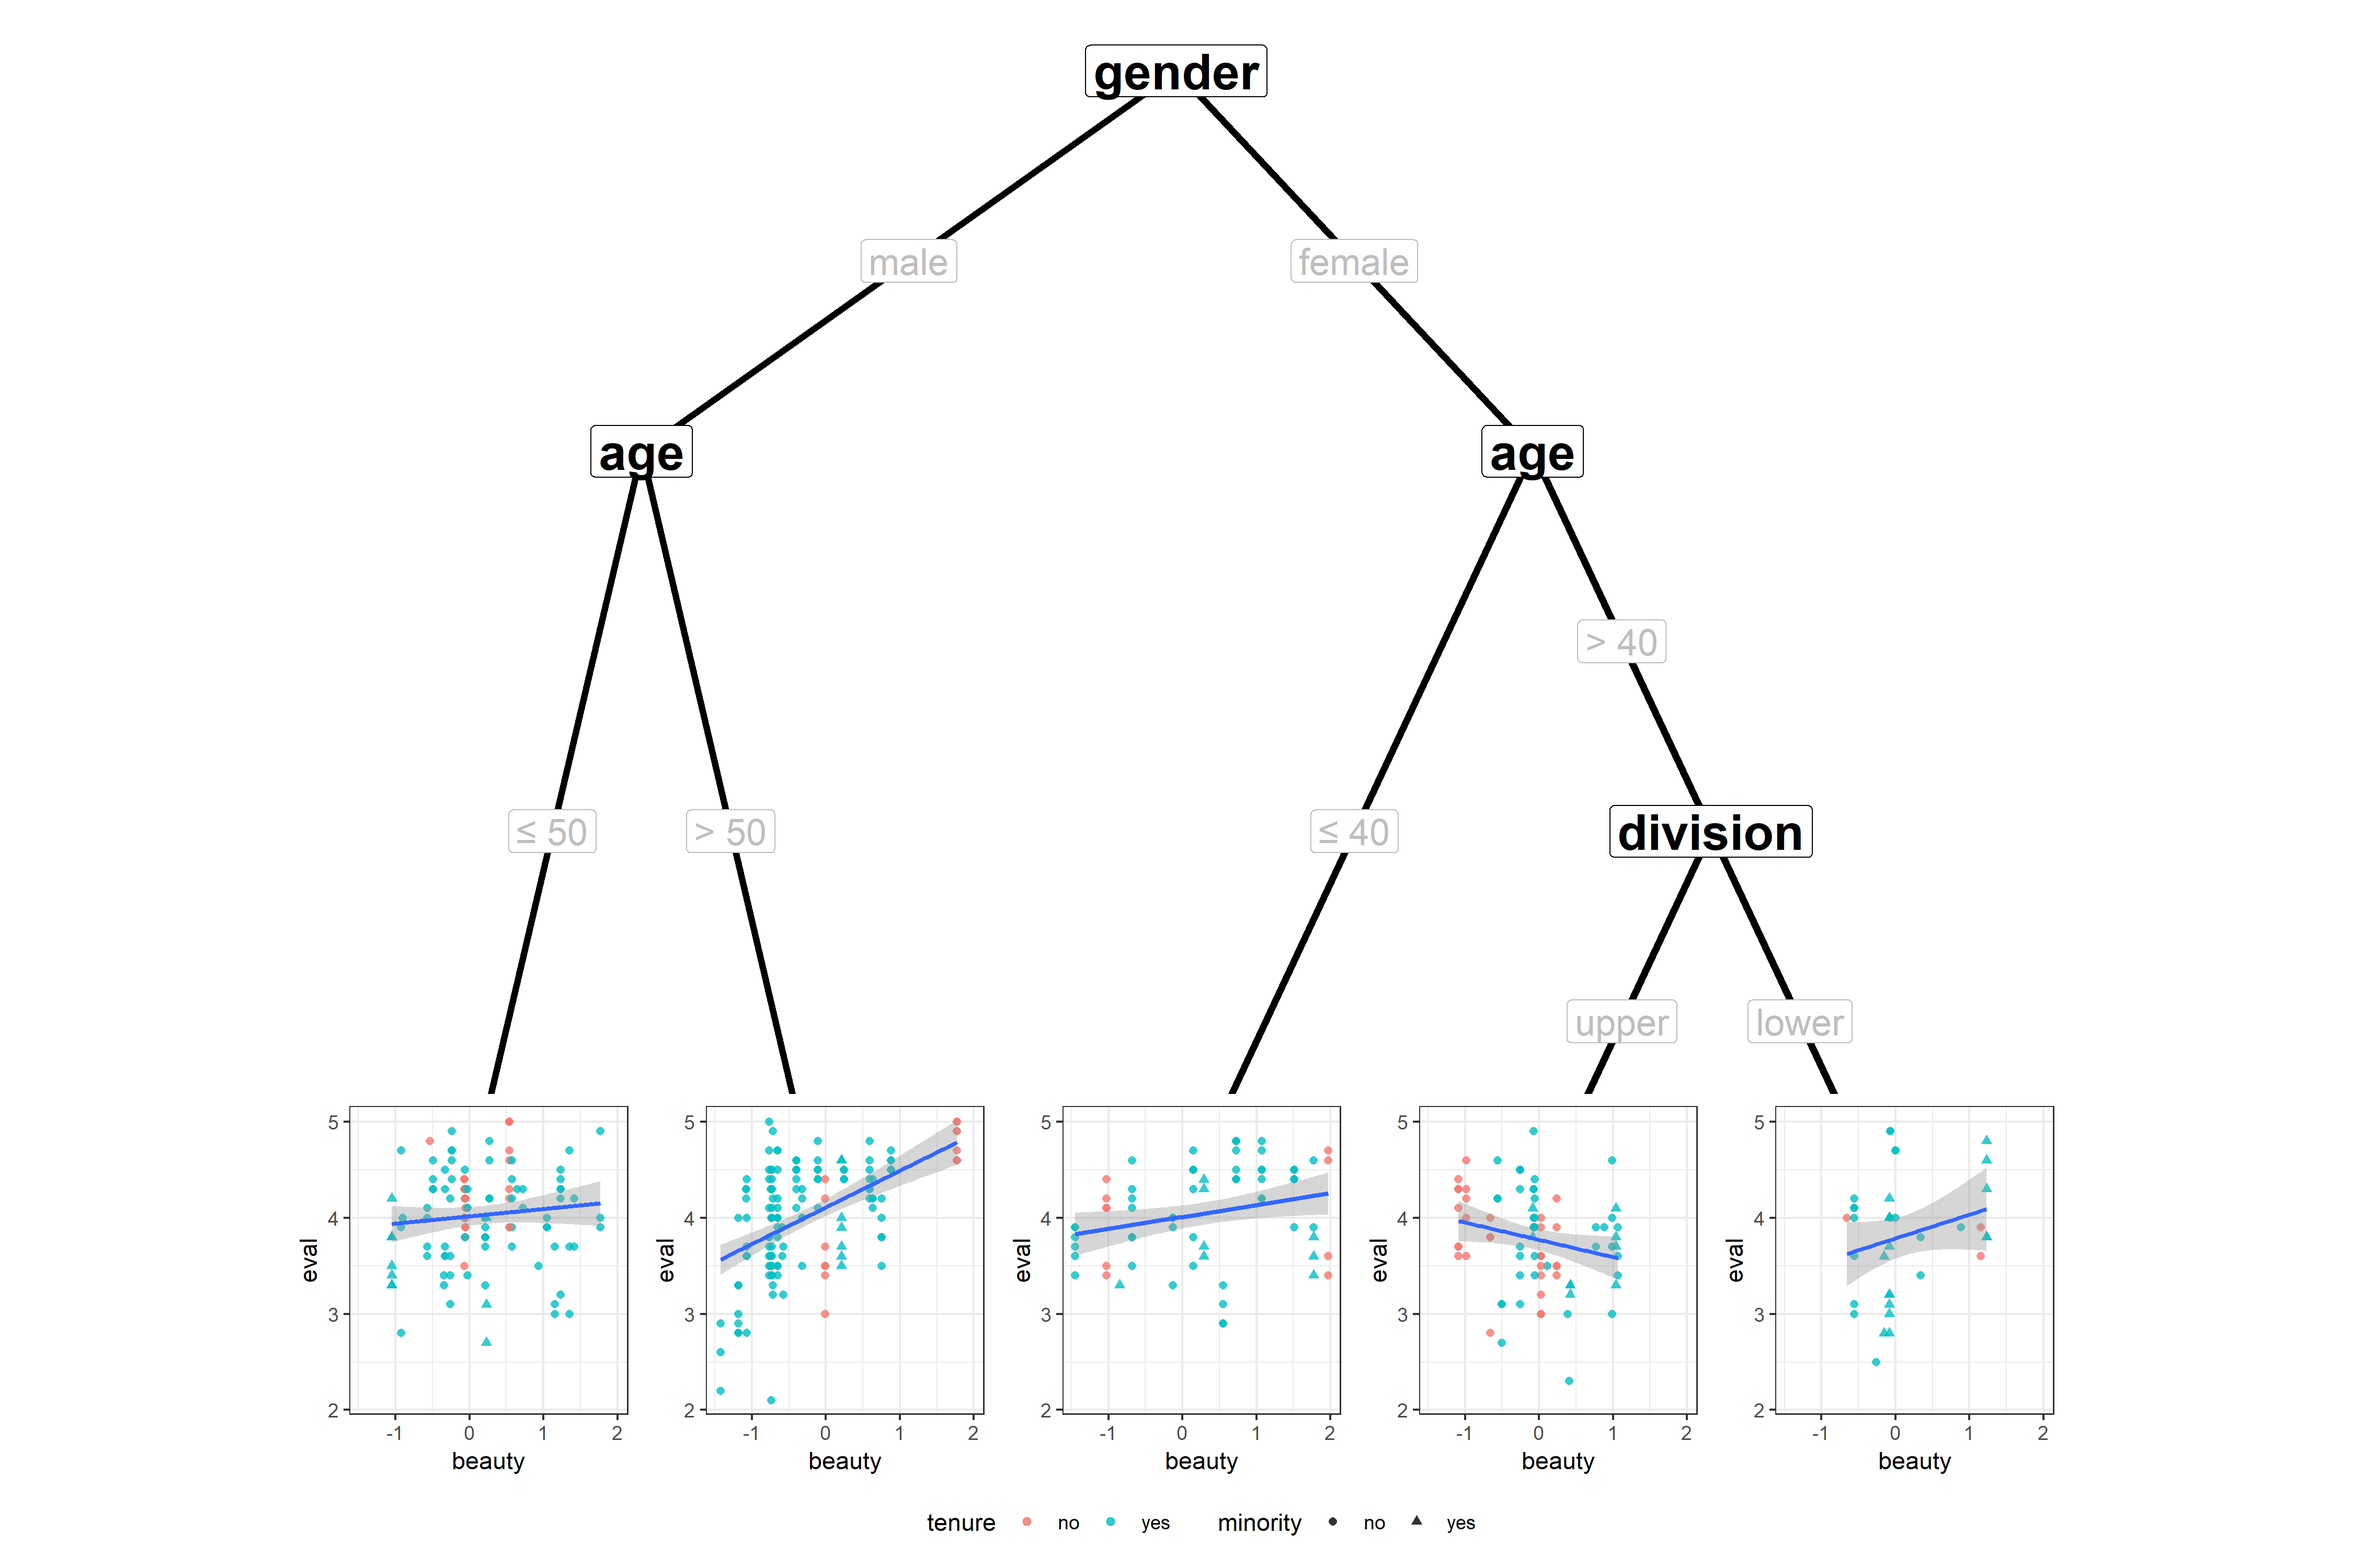
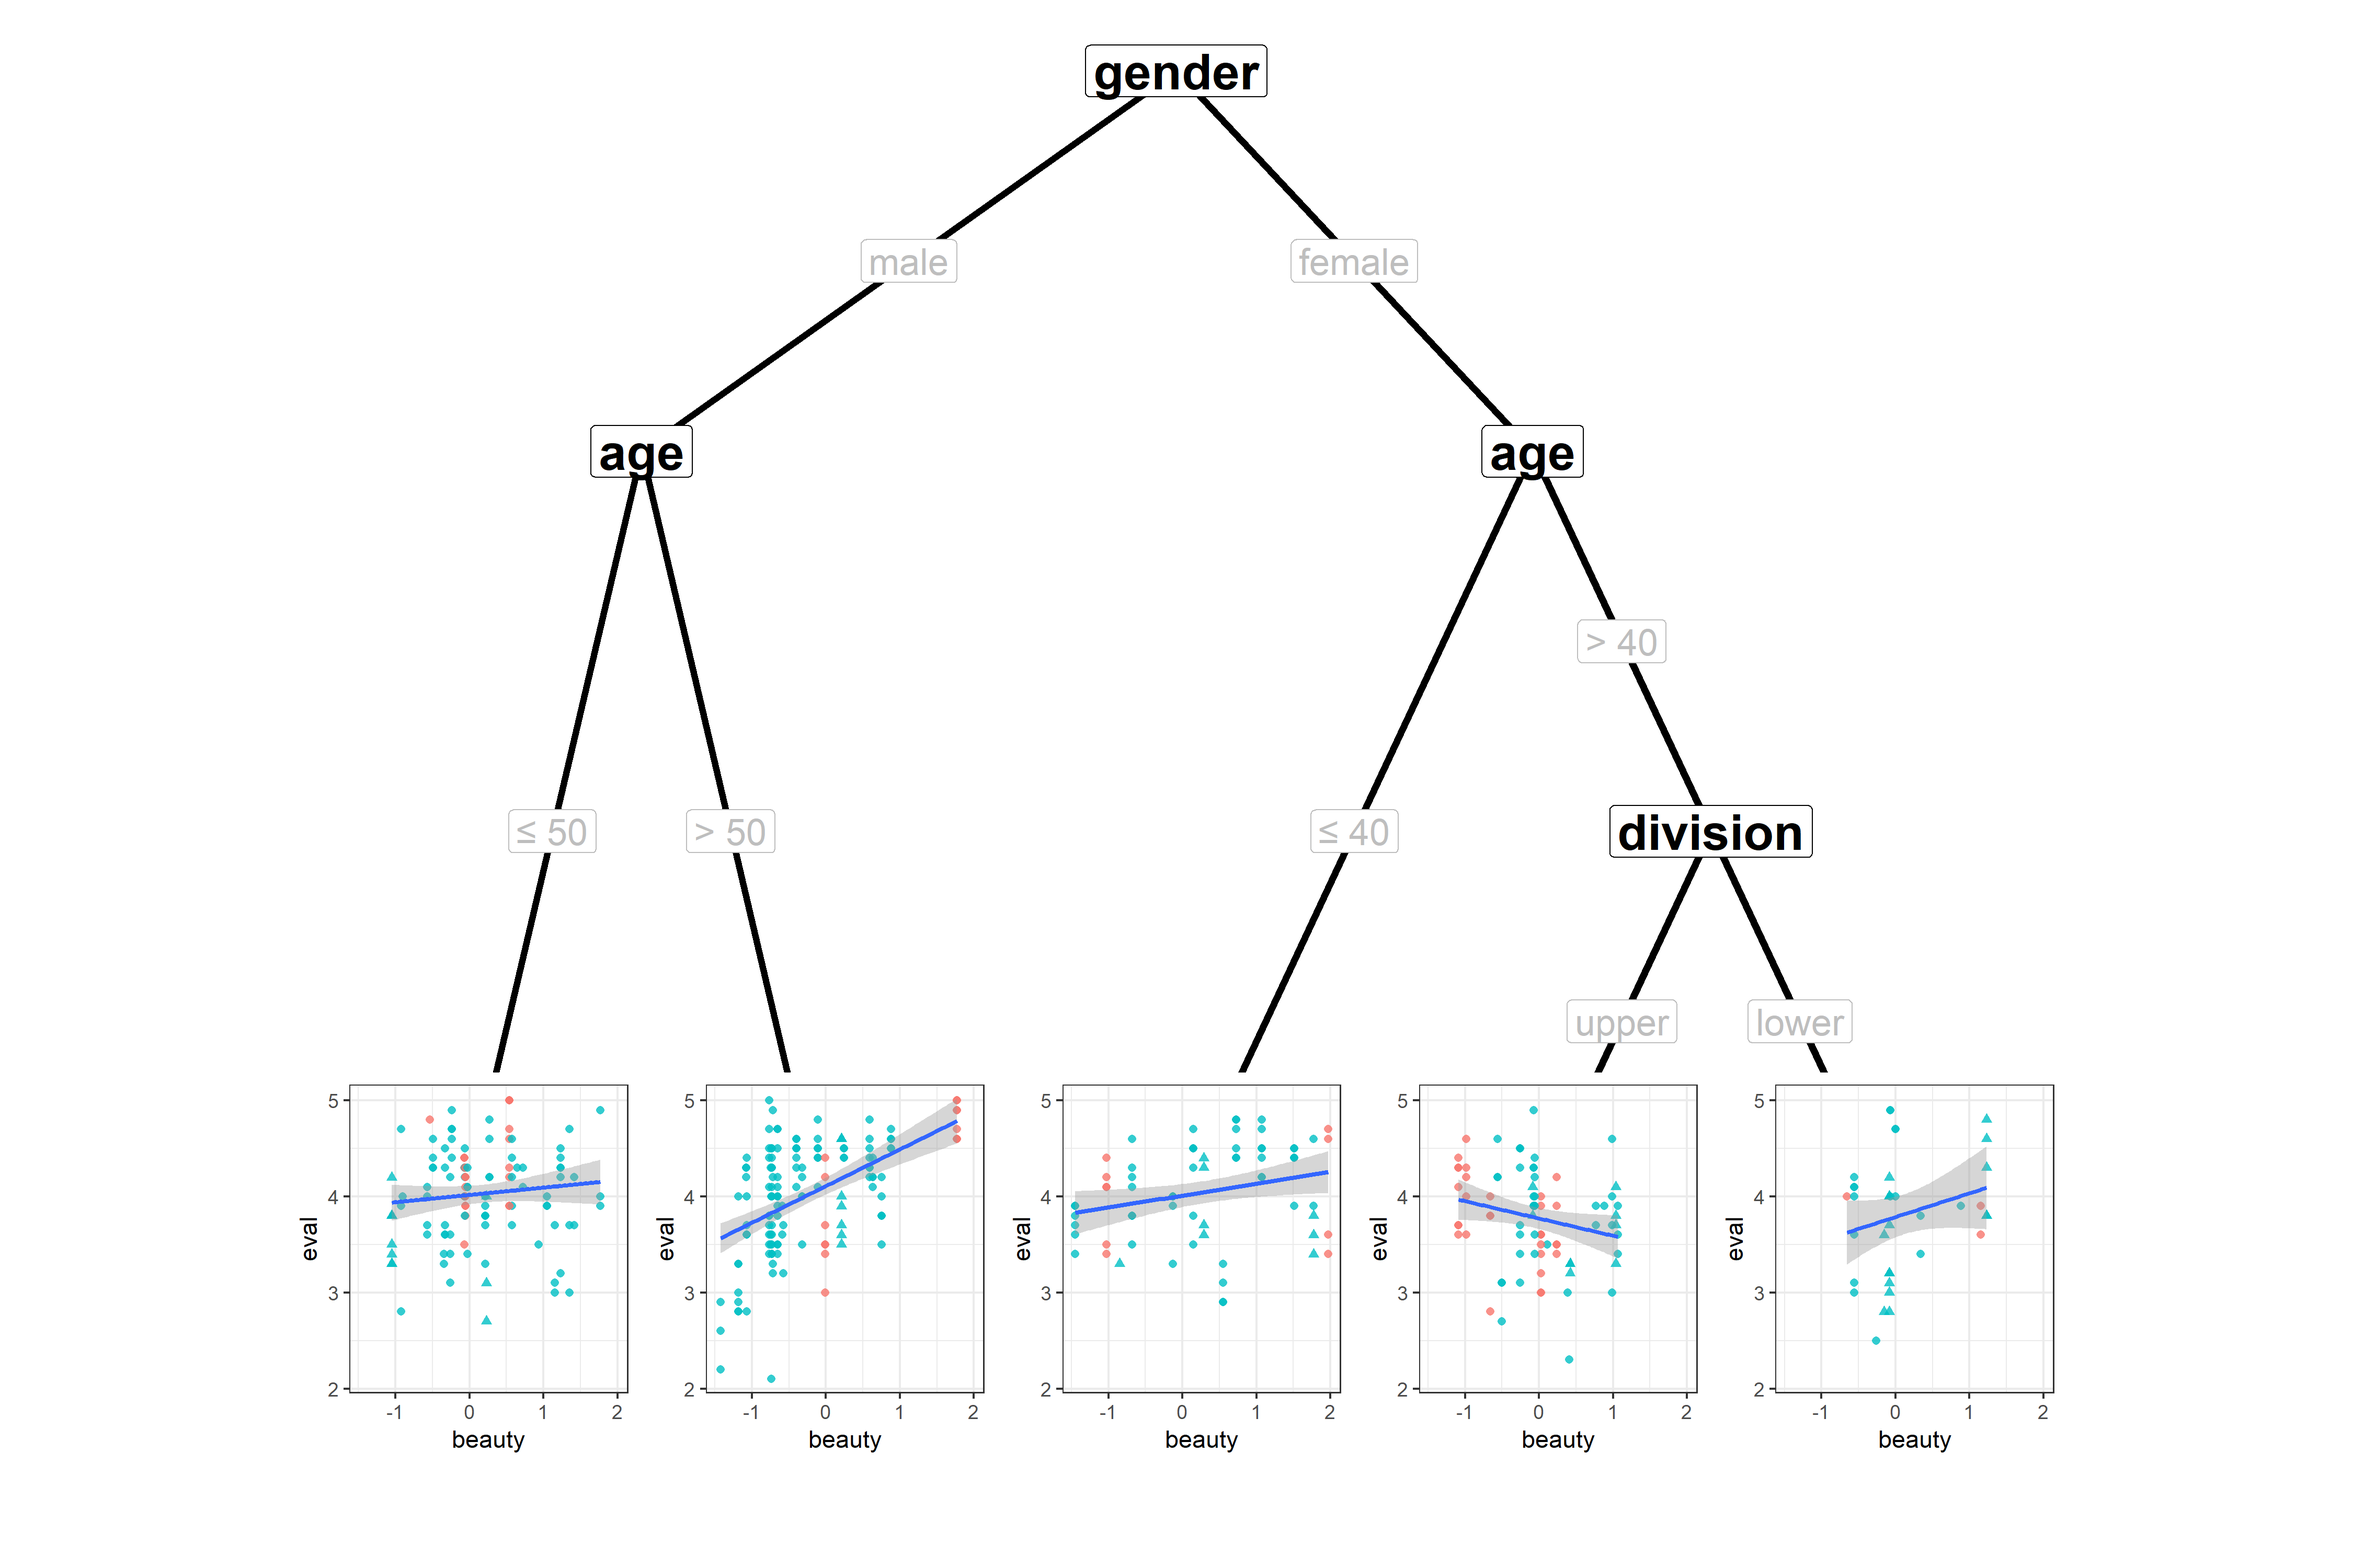
improved documentation, selection of nodes by id, nudging, renamed some geoms

diff --git a/README.md b/README.md
@@ -25,9 +25,8 @@ tr_tree <- lmtree(eval ~ beauty | minority + age + gender + division + native +
 
 ggparty(tr_tree) +
   geom_edge(size = 1.5) +
-  geom_node_inner(fontface = "bold", size = 8) +
-  geom_edge_label_discrete(colour = "grey", size = 6) +
-  geom_edge_label_continuous(colour = "grey", size = 6) +
+  geom_node_splitvar(fontface = "bold", size = 8) +
+  geom_edge_label(colour = "grey", size = 6) +
   geom_nodeplot(gglist = list(geom_point(aes(x = beauty,
                                              y = eval,
                                              col = tenure,
@@ -40,7 +39,7 @@ ggparty(tr_tree) +
                 id = "terminal",
                 width = 0.15,
                 height = 0.25,
-                ynudge = - 0.05) + 
+                y_nudge = - 0.05) + 
   ylim(-0.25, 1)
 ```
 
